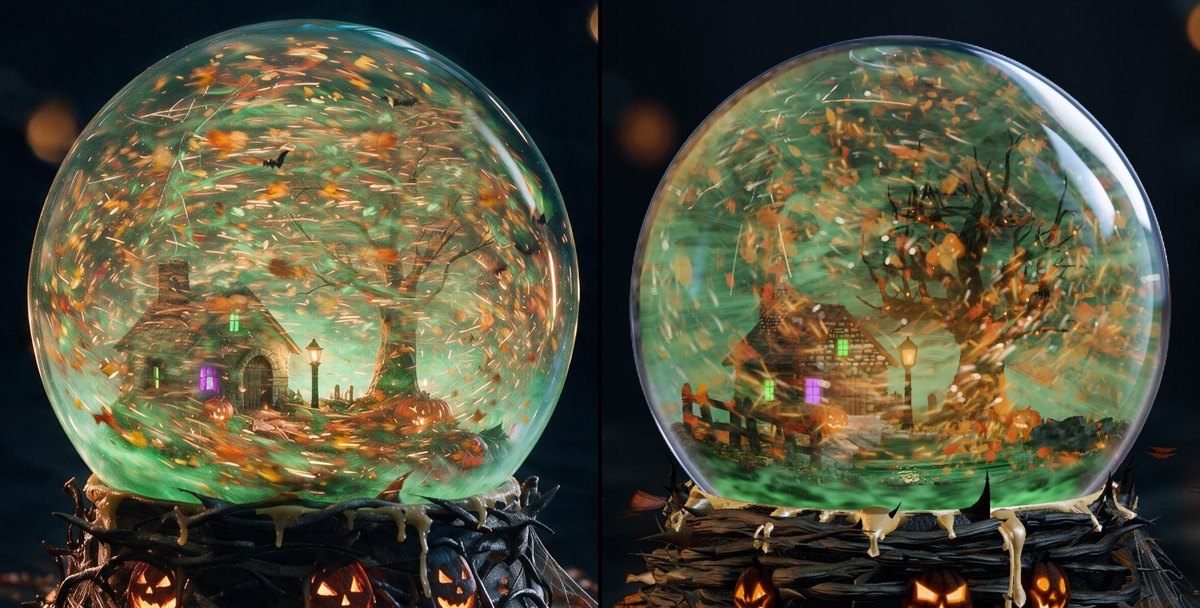
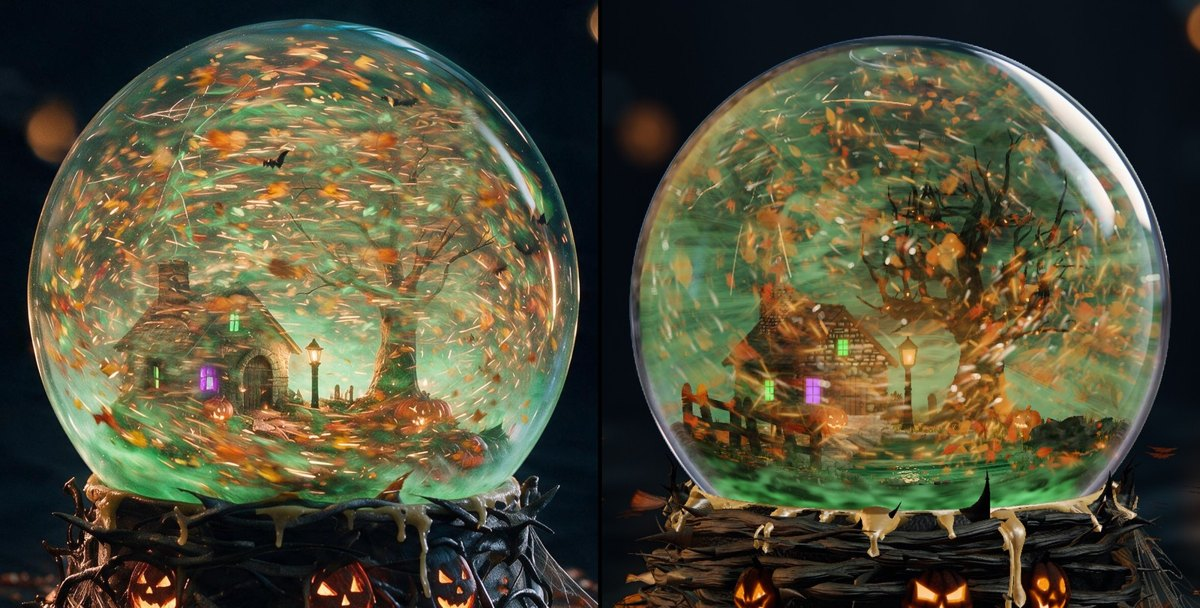
Looks, REPORT and HANDOVER: fall air at c1977fa

diff --git a/REPORT.md b/REPORT.md
@@ -1,0 +1,71 @@
+# REPORT — fall air (fall_air3), Phase 4, third set
+
+Branch `agent/p4-fall_air3`, last commit **c1977fa** (pushed 08:05 UTC; a merge of main over e0cd067, my last own commit). Looks branch `agent/p4-fall_air3-looks`. Session 05:38 to 08:38 UTC.
+
+## Stand-ins and fallbacks
+
+None. No generated picture, no placeholder, no asset of mine changed: code only. Make targets: none.
+
+## Still wrong, worst first
+
+1. Rim of the glass (R1 #1 severe; R3-1 set-C-02): the blue fringe on the silhouette and the thick rim are the shared shell (`src/globe/shell.ts`), not fall's rig; fall's sky was tested against it and made no visible difference. Only the key's streak on the right shoulder was mine, now a dim cream.
+2. M3 fall-rest red: draft 0.4405 (base 0.591, miniature 0.441) on c1977fa with main's miniature; review tier 0.3819 (base 0.382, miniature 0.395). With my fog sheets and lip off (diagnostic, never committed) the miniature reads 0.436 at review and the base the same: the fog's share is 0.041. No final-tier reading of mine (11 minutes each).
+3. M1 fall-interior red: the miniature touches the edge of the frame (fall_mini3's crown; not these files).
+4. Storm fog: thin ribbons now, but finer and dimmer than the approved's fewer broad bright bands.
+5. Crack: bowed, lit in stretches; no refraction, no splinters at the hub; may be too faint on film (`faint 0.07`).
+6. Sparks softer and larger than the approved's points (the sprite is kinds3's drawing).
+7. Leaves afloat at rest: about 55, the approved has 60 to 70 and larger; 3 % still hang without landing (thinner cloud than the motion critic saw, not gone). Not seen in motion by me.
+8. Haze at rest stands higher up the back wall than the approved's.
+
+## What I built (commits, all on the branch)
+
+- f0b3fc7: mist at rest stands behind the house and tree in banks; the lip rises up the wall in tufts behind the scene.
+- 7c14ebf: sparks rise through the whole dome (R1 #5 of Round 10, `src/scene/layout.ts` `sparks`), storm fog greener and thinner over the scene, the crack's second line.
+- c6cc937: the crack bows between its traced points, warmer, lit in beads.
+- deb668b: narrower, greener strands with clear water between; strands round the front above the roof.
+- 2db3557: lifted fog no longer lit by the lamp grid (the pale veil over the house), thinner before the scene; leaf row.
+- d3e070e: ribbons (Round 13 R1 #6), low fog band darker, uneven, thinner to the sides (R1 #4, R3-2 #1, my half), crack faint between its lit stretches (R3-2 #2), window and door spark spots replaced by five in the open liquid, leaf row `floats 0.08, renew 0.05, sizeMm [1.2, 3.8], sizeSkew 1.7` (R4 set-C-01), ember row `sizeMm [0.12, 0.75]`.
+- e0cd067: key [1, 0.9, 0.78] at 0.5 (R1 #1, my part).
+- Leaf count: measured and asked for 10,000 (decision 88, /root's file): at 16,000 the tree was hidden at landed with my fog off too.
+
+## Not done that was asked
+
+- M3 with the fog off at the FINAL tier: done at review tier only (time).
+- The settled state was looked at once (07:31), before d3e070e and e0cd067; not again after.
+- Nothing was looked at in motion (no film rendered by me).
+
+## Tests and what they printed (on c1977fa unless said)
+
+- `npx tsc --noEmit`: clean. `npx vitest run`: 432 passed, 4 skipped (33 files, 1 skipped).
+- `npm run determinism`: `determinism: pass · 3 pictures, 4 page loads, preview, draft, 351 s` (on e0cd067; c1977fa adds only main's scorecards and kit notes).
+- `npm run measure -- --unit fall --only M1,M2,M3,M6 --tier draft --force`: see MEASURES below.
+- `npm run measure -- --unit change --only M4,M5 --tier draft --force` at 10,000 leaves: M4 0.9447 / 0.9797 / 0.9194 / 0.9636 (threshold 0.85), M5 0.9878 / 1 / 0.9873 / 0.9997 (threshold 0.6): all pass.
+- Winter rest and landed hero draft stills after the second emitter change: byte-identical (`cmp`) to those from before my first emitter change.
+
+## MEASURES (draft, c1977fa, all 19 lines of `--unit fall --only M1,M2,M3,M6`)
+
+- pass: M1, M2, M6 on fall-rest, fall-shake, fall-base, fall-surface, fall-settled; M2, M6 on fall-interior. M6 fall-shake 0.000029 (3 of 102,000 particles inside a solid).
+- FAIL M3 fall-rest: 0.4405 against 0.75 (base 0.591 over 172,715 px; miniature 0.441 over 106,135 px).
+- FAIL M1 fall-interior: 0 invalid values; the miniature, 457,166 px in the ids view, touches the edge of the frame.
+- Review tier, M3 fall-rest only (2dd31bf plus the warm key): fog on 0.3819 (base 0.382, miniature 0.395 over 106,135 px); fog sheets and lip off: base 0.382, miniature 0.436 over 112,358 px.
+
+## Triangles (G15, `node out/work/bin/tris.mjs fall`, 08:19 UTC on c1977fa)
+
+My files: 31,488 (46 sheets 17,664, lip shell 1,536, crack sphere 12,288), unchanged all session. Fall: 1,606,733 of 1,800,000 high; 937,690 of 1,100,000 medium; 417,788 of 600,000 low.
+
+## Looks used
+
+42 numbered fall stills this session (hero, draft hd, a few macro), plus 2 for the key and sky, 3 diagnostics for the leaf count and the fog off, 4 winter stills for the emitter check, 3 M3 readings at draft and 2 at review. That is over the 40 a part allows if all are booked on the glass dressing, which the agents before me had already passed; by part it is about 32 on the fog and crack, 10 on the particle rows and emitters, 2 on the light.
+
+## Round 13 issues in my files and where they stand
+
+| Issue | State |
+|---|---|
+| R1 #1 severe, rim and upper-right arc | key warmed and dimmed (e0cd067); rim and fringe are the shared shell, open |
+| R1 #4, R3-2 #1 major, green floor band | my half fixed (d3e070e); ground and pond are fall_mini3's |
+| R1 #6 major, storm's milky haze | fixed in part (2db3557, d3e070e): veil gone, ribbons; streak drawing is kinds3's |
+| R3-2 #2 major, straight bright lines | fixed (c6cc937, d3e070e): bowed, lit in stretches; no refraction |
+| R3-1 set-C-02 minor, blue fringe | shared shell, open |
+| R4 set-C-01 minor, cloud round the crown | fixed in part (d3e070e): fewer hang, three in eight afloat fall and land; not seen in motion |
+| M3 fall-rest | red; fog's share measured 0.041 (review) |
+| M1 fall-interior | red; fall_mini3's crown |

diff --git a/HANDOVER.md b/HANDOVER.md
@@ -1,0 +1,28 @@
+# HANDOVER — fall air (fall_air3), Phase 4
+
+Branch `agent/p4-fall_air3`, looks `agent/p4-fall_air3-looks`. Files: `src/seasons/fall/glass.ts`, `veil.ts`, `rig.ts`, `backdrop.ts`, the leaf, ember and bat rows of `src/particles/engine/kinds.ts`, `assets-src/dressing-fall/**`, `assets-src/refrig/fall.json`, and (by /root's leave at the 05:31 freeze) fall's `sparks` emitter list in `src/scene/layout.ts`.
+
+## Open, worst first
+
+1. **Rim of the glass (R1 #1 severe, R3-1 set-C-02 minor).** The key is now a dim cream ([1, 0.9, 0.78] at 0.5), so the shoulder streak is no longer white-blue. The blue fringe on the silhouette and the thick rim did NOT move with fall's sky (tested [0.097, 0.1, 0.07], reverted): they are the shared shell, `src/globe/shell.ts` (`rim`, `edge`, `ceiling` tints on `uSky` and `uKeyCol`), open items 65 and 76. Not in these files.
+2. **M3 fall-rest red.** Review tier on 2dd31bf + warm key: base 0.382, miniature 0.395; with the fog sheets and the lip off the miniature reads 0.436, the base the same. The fog's share is 0.041; the rest is the base's and the miniature's detail. Draft readings run far above final ones.
+3. **Storm fog against the approved shake.** The strands are thin ribbons now (`ribbon`, `ribbonBody` in `look.fog`; the line where the weave crosses 0.585 and 0.45). The approved's are fewer, broader (1 to 2 mm) and brighter, with dark clear water between. Next step: weigh the weave toward `s1` (lower `s3`'s 0.2) for fewer, longer bands, and raise `swirl`. Mind `broad`: it feeds the flood at the swap and so M4.
+4. **Crack.** One crack with two arms, bowed between the traced points, lit in stretches. No refraction of what lies behind it and no fine splinters at the hub. `faint 0.07` may be too faint on the film; `0.1` is the middle.
+5. **Sparks.** Softer and larger than the approved's points; the glow sprite is `src/particles/draw/**` (kinds3). The row is `sizeMm [0.12, 0.75], sizeSkew 3`.
+6. **Leaves afloat at rest.** About 55 at 10,000 (`floats 0.08, renew 0.05`); the approved has 60 to 70, larger. The 3 % that only float (`floats` minus `renew`) hang at 0.3 to 1.8 mm/s and never land: the motion critic's cloud (R4 set-C-01) is thinner, not gone. Not seen in motion.
+7. **Haze at rest** stands higher up the back wall than the approved's (`hazeMm 12`).
+8. **Low fog band.** Darker, uneven, thinner to the sides now; fall_mini3 adds grass and stones through it. If the pond's near shore is still covered, lower `lip` (1.1) or `lipFrontMm` (3).
+
+## How things work (read before touching)
+
+- `look.fog` in `glass.ts` holds every number. 46 sheets from back to front plus one lip shell on the wall. `uFog.y` is the lift (0 pooled, 1 through the dome), `uFogTurn.y` the flood (1 through the swap, `floodHeld` at landed).
+- Lifted fog is not lit by the lamp grid (`warmLifted 0.9`): with it lit, thin fog before the house stood as a pale veil. Do not undo.
+- `liftedFront`, `liftedMiddle` thin the fog before and inside the scene; `liftedFrontHigh` lets strands round the front above the roof.
+- Leaf row: `u5 < renew` falls at `renewMmS`, lands, lies `dwellSeconds`, is reborn; `renew <= u5 < floats` hangs for ever; the rest land at `settleMmS`.
+- Embers: 55 % are born anywhere (kinds3's `BORN_WIDE`), 45 % at the `sparks` spots of `src/scene/layout.ts`, each spot an equal share whatever its radius. A small spot over a wall makes a cluster.
+- The leaf count (10,000, decision 88) is /root's in `config/showcase.json`.
+- Changing an emitter row: render winter rest and landed hero draft before and after and `cmp` them (identical both times so far).
+
+## Commands
+
+`npm run texpack && npm run -s build`; `npm run still -- --season fall --state rest|landed|settled --camera hero --tier draft --format hd --force` (65 to 80 s); pairs with the approved: `python3 out/work/v/pair.py <still> rest|shake <out.jpg>` (untracked helper). `npm run measure -- --unit fall --only M3 --tier draft|review --force` (100 s / 190 s). `node out/work/bin/tris.mjs fall`. Never run `still --help` or `measure --help`: they start a render.
